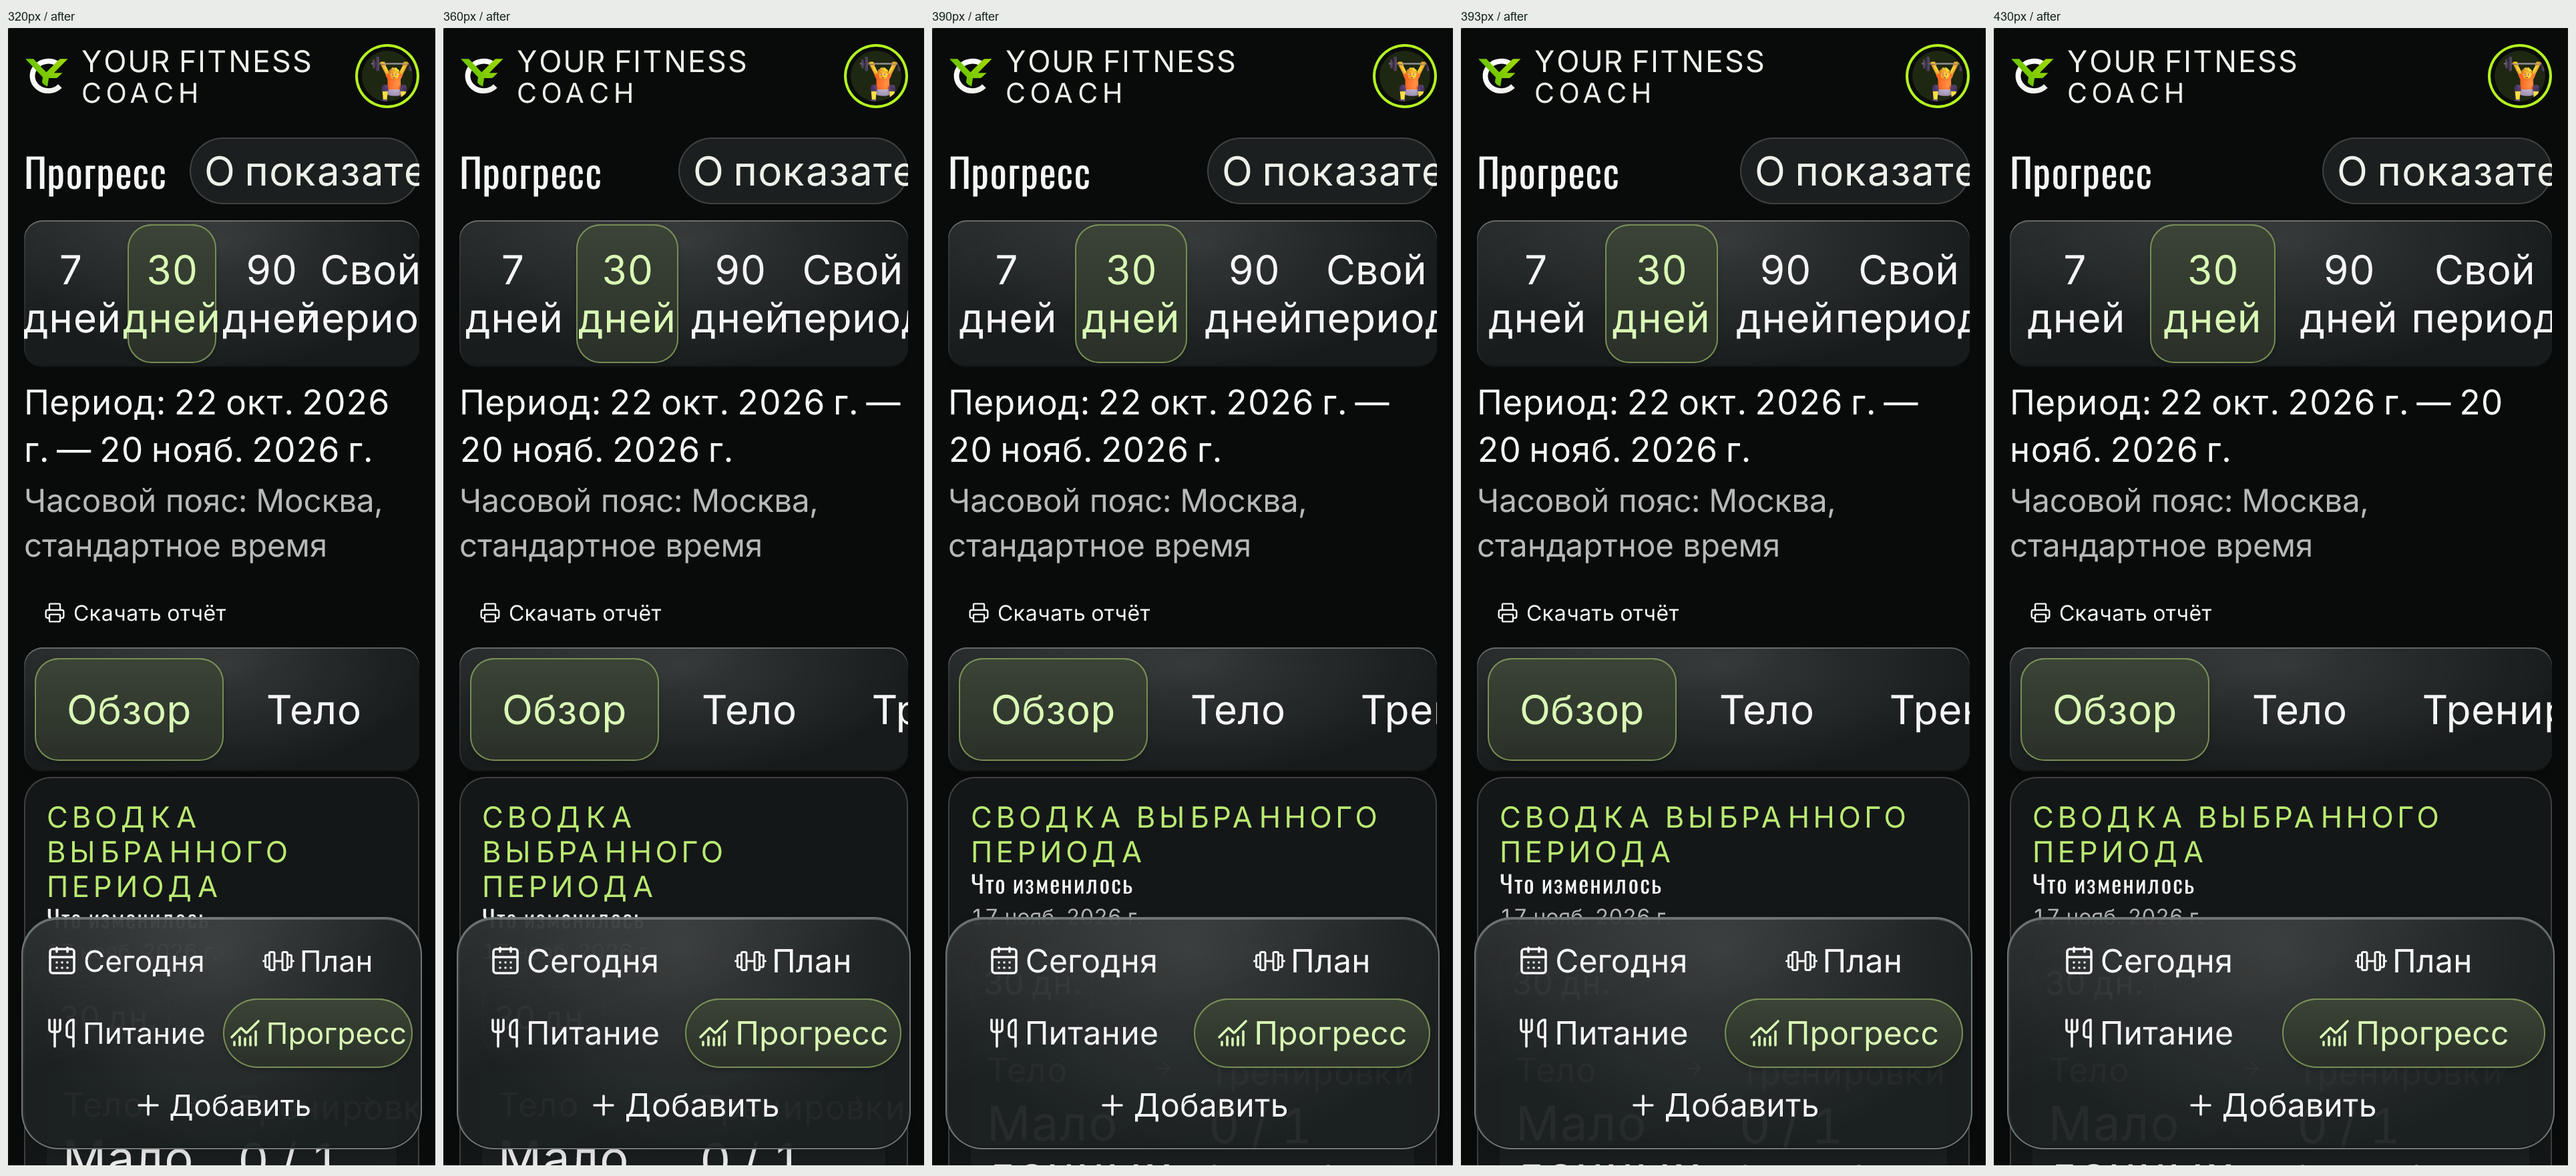
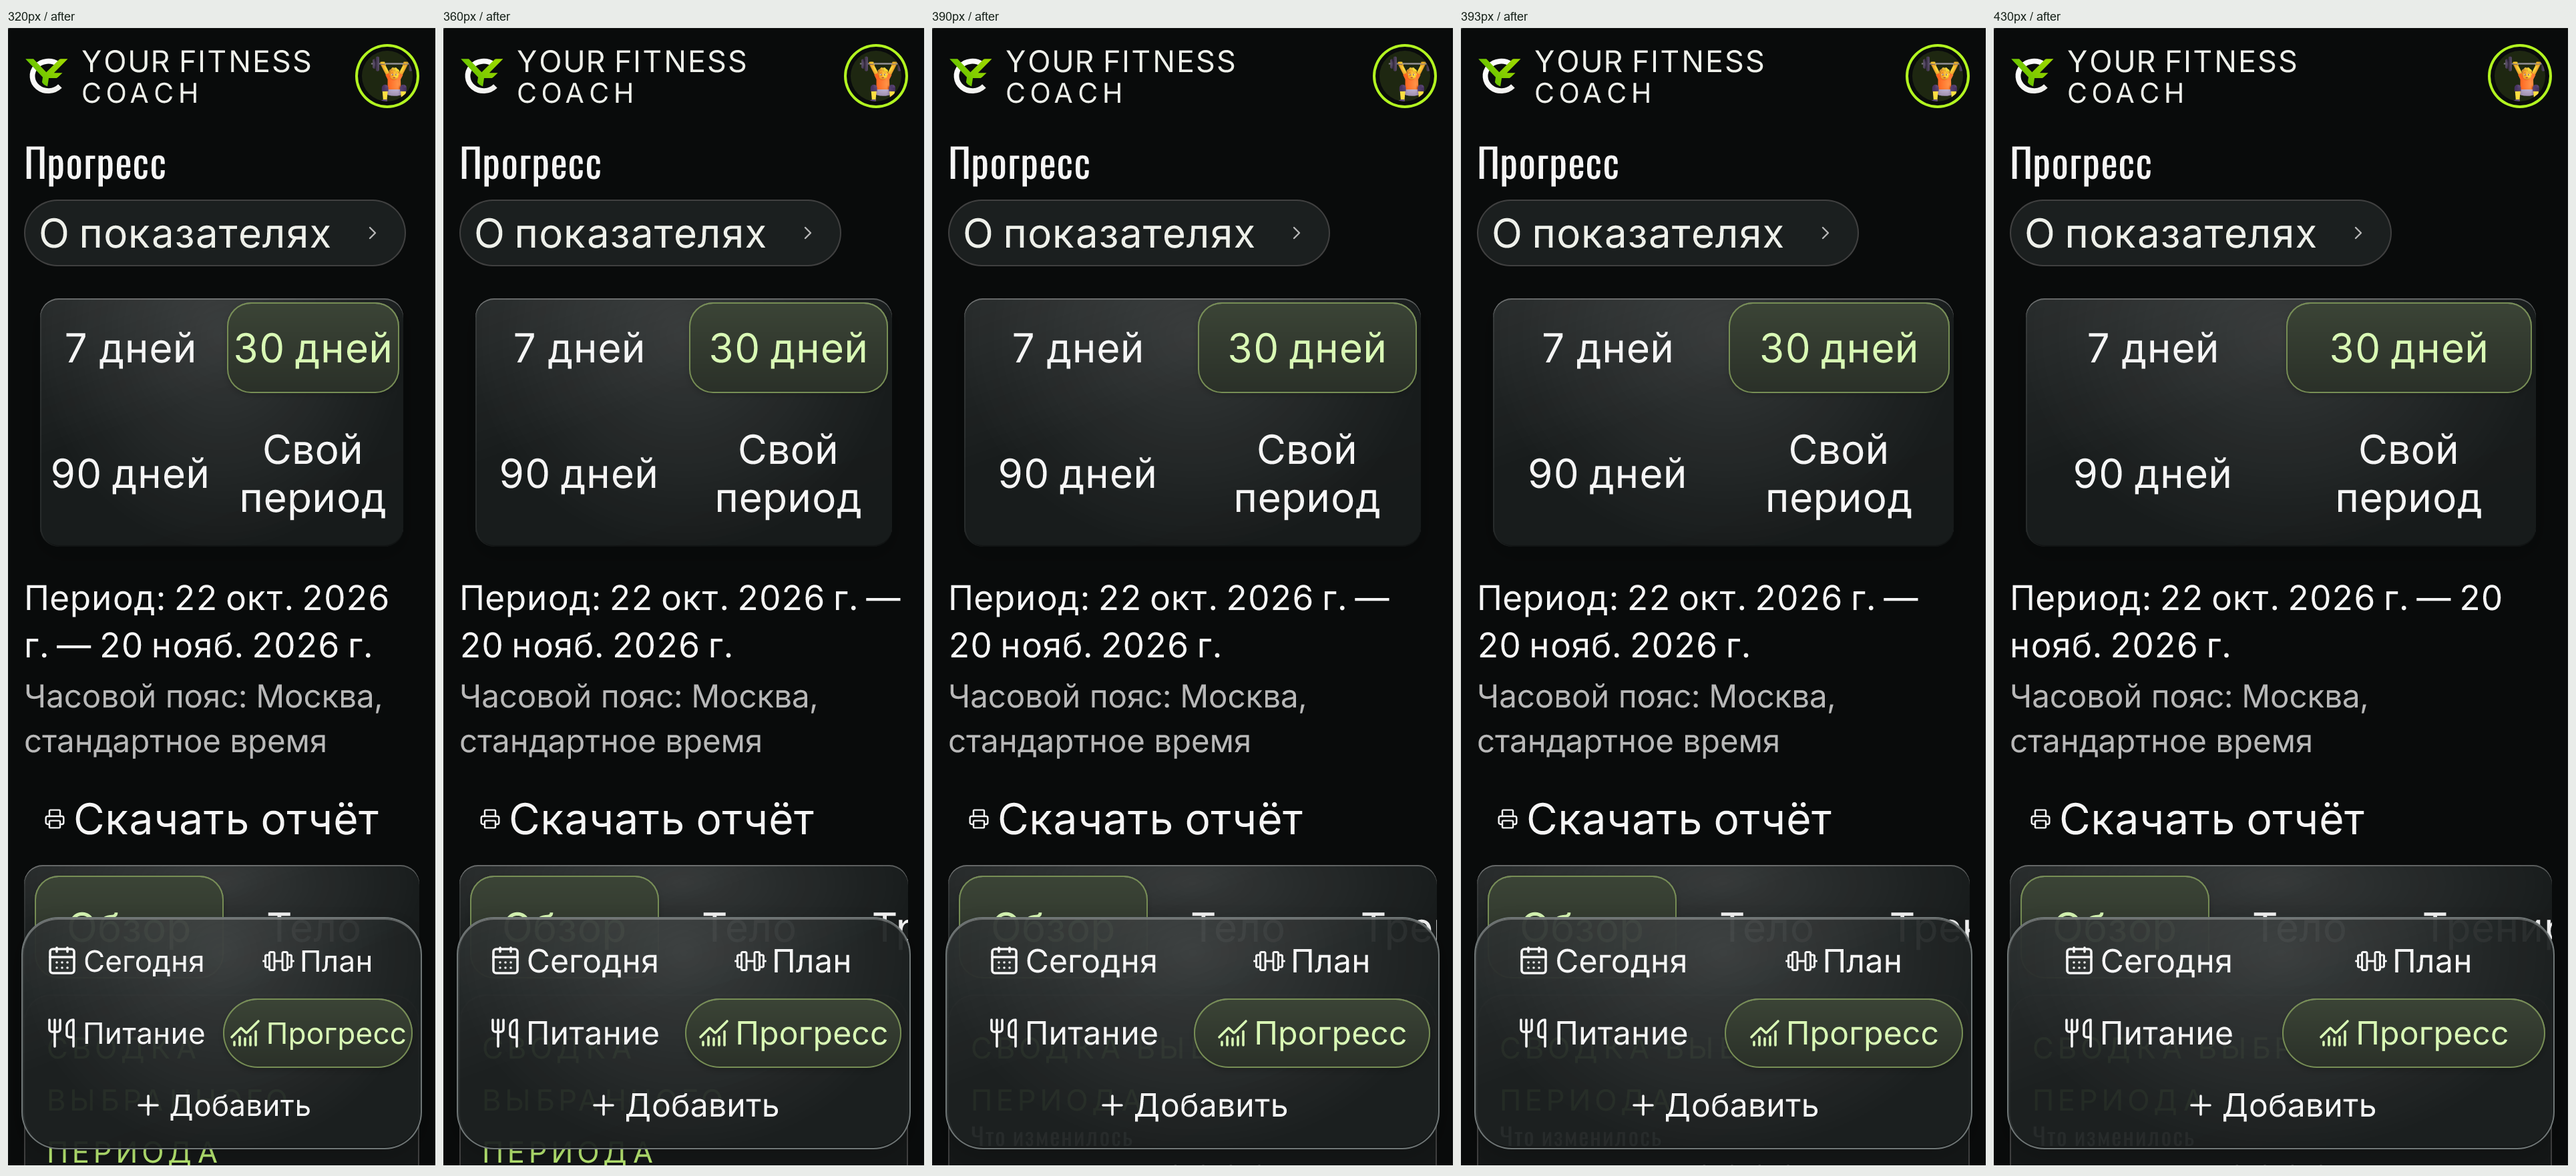
fix: avoid progress layout stalls in demo

diff --git a/frontend/src/styles/design-v2.css b/frontend/src/styles/design-v2.css
@@ -3870,10 +3870,6 @@ body.public-shell-mode.public-shell-mode:has(.auth-public-shell--design-v2) {
   color: var(--v2-text-primary);
 }
 
-.app-section--progress .progress-experience {
-  container-type: inline-size;
-}
-
 .app-section--progress .progress-experience--bento .progress-hero {
   display: grid;
   grid-template-columns: minmax(0, 1fr) minmax(0, min(620px, 50%));
@@ -3965,24 +3961,28 @@ body.public-shell-mode.public-shell-mode:has(.auth-public-shell--design-v2) {
   flex: 0 0 28px;
 }
 
-@container (max-width: 15em) {
-  .app-section--progress .progress-hero__heading {
-    grid-template-columns: minmax(0, 1fr);
-  }
+.app-section--progress .progress-hero[data-compact] .progress-hero__heading {
+  grid-template-columns: minmax(0, 1fr);
+}
 
-  .app-section--progress .progress-hero__help,
-  .app-section--progress .progress-hero__help:has(.contextual-help[open]) {
-    grid-column: 1;
-    grid-row: 2;
-    justify-self: start;
-    width: 100%;
-  }
+.app-section--progress .progress-hero[data-compact] .progress-hero__help,
+.app-section--progress
+  .progress-hero[data-compact]
+  .progress-hero__help:has(.contextual-help[open]) {
+  grid-column: 1;
+  grid-row: 2;
+  justify-self: start;
+  width: 100%;
+}
 
-  .app-section--progress .progress-hero__help .contextual-help > summary {
-    max-width: none;
-    white-space: normal;
-    overflow-wrap: anywhere;
-  }
+.app-section--progress
+  .progress-hero[data-compact]
+  .progress-hero__help
+  .contextual-help
+  > summary {
+  max-width: none;
+  white-space: normal;
+  overflow-wrap: anywhere;
 }
 
 .app-section--progress .progress-hero__help:has(.contextual-help[open]) .contextual-help {
@@ -4047,22 +4047,20 @@ body.public-shell-mode.public-shell-mode:has(.auth-public-shell--design-v2) {
   }
 }
 
-@container (max-width: 15em) {
-  .app-section--progress .progress-period-controls__tabs {
-    overflow: visible;
-    padding: calc(var(--focus-width) + var(--focus-offset));
-  }
+.app-section--progress .progress-hero[data-period-compact] .progress-period-controls__tabs {
+  overflow: visible;
+  padding: calc(var(--focus-width) + var(--focus-offset));
+}
 
-  .app-section--progress .progress-period-controls .ui-tabs {
-    flex-wrap: wrap;
-  }
+.app-section--progress .progress-hero[data-period-compact] .progress-period-controls .ui-tabs {
+  flex-wrap: wrap;
+}
 
-  .app-section--progress .progress-period-controls .ui-tab {
-    flex: 1 1 40%;
-    min-width: 0;
-    white-space: normal;
-    overflow-wrap: anywhere;
-  }
+.app-section--progress .progress-hero[data-period-compact] .progress-period-controls .ui-tab {
+  flex: 1 1 40%;
+  min-width: 0;
+  white-space: normal;
+  overflow-wrap: anywhere;
 }
 
 .app-section--progress .progress-period-controls__meta {

diff --git a/frontend/tests/e2e/v14-text-reflow.spec.ts b/frontend/tests/e2e/v14-text-reflow.spec.ts
@@ -37,6 +37,12 @@ for (const width of [320, 360, 390, 393, 430]) {
         document.documentElement.style.fontSize = '32px';
       });
       await page.evaluate(() => document.fonts.ready);
+      const rows = await periods.evaluateAll((elements) =>
+        elements.map((element) => Math.round(element.getBoundingClientRect().top)),
+      );
+      expect(rows[0]).toBe(rows[1]);
+      expect(rows[2]).toBe(rows[3]);
+      expect(rows[2]!).toBeGreaterThan(rows[0]!);
       for (const period of await periods.all()) {
         await expectTextInsideControl(period);
         const box = (await period.boundingBox())!;
@@ -133,4 +139,55 @@ test('ordinary mobile text retains the single-row period and workout headers', a
   const title = (await header.locator('strong').boundingBox())!;
   const back = (await header.getByRole('button', { name: 'К сводке' }).boundingBox())!;
   expect(title.x).toBeGreaterThanOrEqual(back.x + back.width - 1);
+});
+
+test('progress heading adapts when text and viewport sizes change', async ({ page }) => {
+  await page.setViewportSize({ width: 393, height: 852 });
+  await installPlatformApi(page, { browserSession: true, fixedDate: '2026-11-17' });
+  await page.goto('/app?section=progress');
+  const title = page.locator('.progress-hero__copy h1');
+  const help = page.locator('.progress-hero__help summary');
+  await expect(title).toBeVisible();
+  const positions = () =>
+    help.evaluate((element) => {
+      const helpBox = element.getBoundingClientRect();
+      const titleBox = document.querySelector('.progress-hero__copy h1')!.getBoundingClientRect();
+      return {
+        helpTop: helpBox.top,
+        helpLeft: helpBox.left,
+        titleBottom: titleBox.bottom,
+        titleRight: titleBox.right,
+      };
+    });
+  await expect
+    .poll(async () => {
+      const box = await positions();
+      return box.helpLeft >= box.titleRight;
+    })
+    .toBe(true);
+  await page.evaluate(() => {
+    document.documentElement.style.fontSize = '32px';
+  });
+  await expect
+    .poll(async () => {
+      const box = await positions();
+      return box.helpTop >= box.titleBottom - 1;
+    })
+    .toBe(true);
+  await page.evaluate(() => {
+    document.documentElement.style.fontSize = '16px';
+  });
+  await expect
+    .poll(async () => {
+      const box = await positions();
+      return box.helpLeft >= box.titleRight;
+    })
+    .toBe(true);
+  await page.setViewportSize({ width: 200, height: 852 });
+  await expect
+    .poll(async () => {
+      const box = await positions();
+      return box.helpTop >= box.titleBottom - 1;
+    })
+    .toBe(true);
 });

diff --git a/frontend/src/features/workouts/ProgressExperience.tsx b/frontend/src/features/workouts/ProgressExperience.tsx
@@ -3,6 +3,7 @@ import {
   useContext,
   useEffect,
   useId,
+  useLayoutEffect,
   useMemo,
   useRef,
   useState,
@@ -1677,6 +1678,7 @@ export function ProgressExperience({
   progressView?: ProgressView;
   timeZone?: string | null;
 } = {}) {
+  const heroRef = useRef<HTMLElement>(null);
   const { navigate, search } = useNavigation();
   const view = progressView ?? parseProgressView(search, window.location.hash);
   const selection = useMemo(() => parseProgressSelection(search), [search]);
@@ -1739,6 +1741,40 @@ export function ProgressExperience({
     : false;
   const isSummaryUpdating = Boolean(summary.data && !summaryMatchesSelection);
 
+  useLayoutEffect(() => {
+    const hero = heroRef.current;
+    if (!hero) return;
+    const period = hero.querySelector<HTMLElement>('.progress-hero__period');
+    if (!period) return;
+    // Container queries here caused multi-second layout stalls in Demo.
+    const sync = () => {
+      const compact = hero.clientWidth <= 15 * parseFloat(getComputedStyle(hero).fontSize);
+      const periodCompact =
+        period.clientWidth <= 15 * parseFloat(getComputedStyle(period).fontSize);
+      if (hero.hasAttribute('data-compact') !== compact) {
+        hero.toggleAttribute('data-compact', compact);
+      }
+      if (hero.hasAttribute('data-period-compact') !== periodCompact) {
+        hero.toggleAttribute('data-period-compact', periodCompact);
+      }
+    };
+    sync();
+    const observer = typeof ResizeObserver === 'undefined' ? null : new ResizeObserver(sync);
+    observer?.observe(hero);
+    observer?.observe(period);
+    const rootObserver = new MutationObserver(sync);
+    rootObserver.observe(document.documentElement, {
+      attributes: true,
+      attributeFilter: ['style', 'class'],
+    });
+    window.addEventListener('resize', sync);
+    return () => {
+      observer?.disconnect();
+      rootObserver.disconnect();
+      window.removeEventListener('resize', sync);
+    };
+  }, []);
+
   useEffect(() => {
     if (!focusMeasurements || !summary.data) return;
     const frame = window.requestAnimationFrame(() => {
@@ -1752,7 +1788,7 @@ export function ProgressExperience({
 
   return (
     <div className="progress-experience progress-experience--approved">
-      <header className="progress-hero">
+      <header className="progress-hero" ref={heroRef}>
         <div className="progress-hero__heading">
           <div className="progress-hero__copy">
             <span className="eyebrow">Факты за период</span>

diff --git a/frontend/src/styles/ux-ia-redesign.css b/frontend/src/styles/ux-ia-redesign.css
@@ -2823,19 +2823,9 @@ body:has(.daily-wellbeing-card.card-disclosure[open]) .app-quick-add-trigger--fl
   }
 }
 
-@container (max-width: 15em) {
-  .app-section--progress .progress-experience--approved .progress-hero__heading {
-    grid-template-columns: minmax(0, 1fr);
-  }
-
-  .app-section--progress .progress-experience--approved .progress-hero__help {
-    grid-column: 1;
-    grid-row: 2;
-    justify-self: start;
-  }
-
-  .progress-experience--approved .progress-hero__help:has(.contextual-help[open]) {
-    grid-column: 1 !important;
-    grid-row: 2 !important;
-  }
+.app-section--progress
+  .progress-hero[data-compact]
+  .progress-hero__help:has(.contextual-help[open]) {
+  grid-column: 1 !important;
+  grid-row: 2 !important;
 }

diff --git a/docs/ux/final-issues-acceptance/evidence/994-text-reflow-20261120/README.md b/docs/ux/final-issues-acceptance/evidence/994-text-reflow-20261120/README.md
@@ -4,6 +4,8 @@
 
 Ранее принятые изменения: [карточка Today, PR #1501](https://github.com/MikeMoore1337/your-fitness-coach/pull/1501) и [dock, Quick Add и Today, AFTER на точном SHA](https://github.com/MikeMoore1337/your-fitness-coach/blob/973fdb6097ac4d2cd066d95b9e587c216e454d59/docs/ux/final-issues-acceptance/evidence/994-dock-p2-20261119/README.md).
 
+В ранее принятой версии `890f2ae8` листы Progress в WebKit были сняты до завершения перестройки и показывали обрезанный исходный вид. Снимки ниже пересняты после проверки положения справки и двух рядов периода; этот обновлённый AFTER требует отдельной визуальной приёмки.
+
 ## Увеличенный текст 200%
 
 | Состояние | Браузер | Тема | Ширины и снимки |
